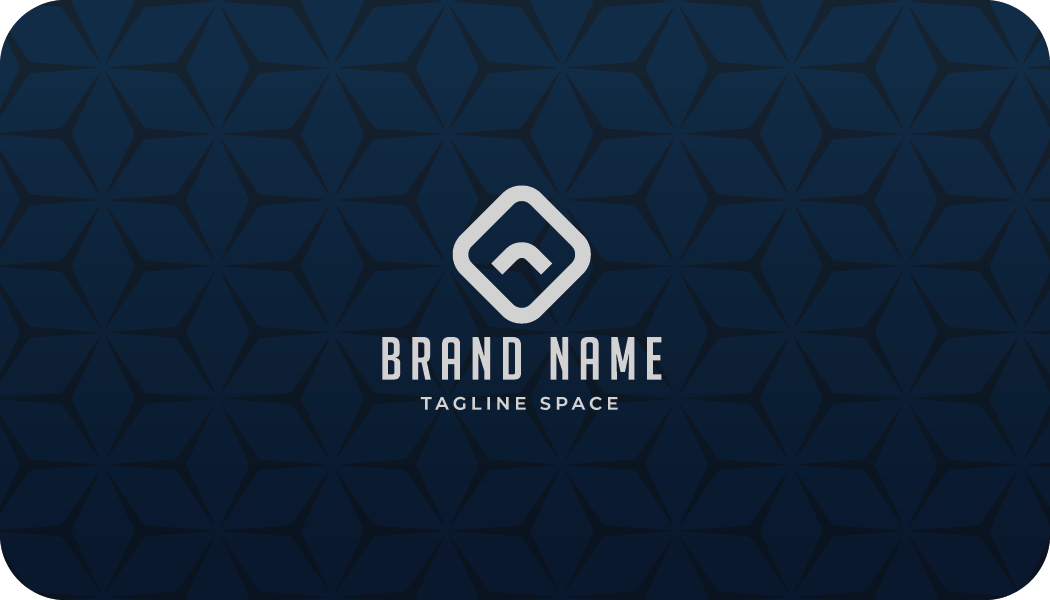
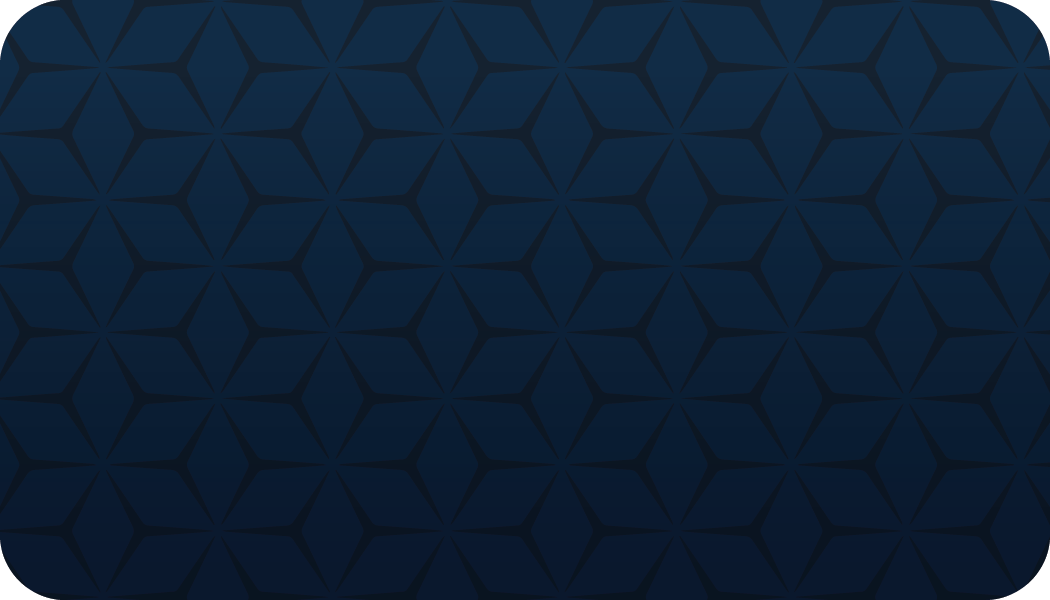
Complete The First Templete

Changed region(s): [[0.3657, 0.3, 0.64, 0.63], [0.3962, 0.66, 0.6095, 0.69]]

diff --git a/app/templates/design-1/page.tsx b/app/templates/design-1/page.tsx
@@ -3,69 +3,40 @@
 import { Button } from "@/components/ui/button";
 import { Input } from "@/components/ui/input";
 import { Box, Container, Flex, Grid } from "@radix-ui/themes";
-import html2canvas from "html2canvas";
-import { jsPDF } from "jspdf";
 import Image from "next/image";
 import { useRef, useState } from "react";
+import { useReactToPrint } from "react-to-print";
 
-const Design = () => {
-  const [location, setLocation] = useState("123 Dummy, Lorem Ipsum");
-  const [phone, setPhone] = useState("+8801408127781");
-  const [email, setEmail] = useState("herdoycode@gmail.com");
-  const [website, setWebsite] = useState("www.herdoycode.com");
-  const [name, setName] = useState("Your Name");
-  const [tag, setTag] = useState("Graphic Designer");
+const Design: React.FC = () => {
+  const [location, setLocation] = useState<string>("123 Dummy, Lorem Ipsum");
+  const [phone, setPhone] = useState<string>("+8801408127781");
+  const [email, setEmail] = useState<string>("herdoycode@gmail.com");
+  const [website, setWebsite] = useState<string>("www.herdoycode.com");
+  const [logo, setLogo] = useState("/logos/design-1.png");
+  const [name, setName] = useState<string>("Your Name");
+  const [tag, setTag] = useState<string>("Graphic Designer");
 
-  // Ref to capture the card for rendering into PDF
-  const cardRef = useRef<HTMLDivElement>(null);
+  const contentRef = useRef<HTMLDivElement | null>(null);
 
-  const downloadPDF = async () => {
-    const element = cardRef.current;
-    if (!element) {
-      console.error("The cardRef is not attached to an element.");
-      return;
-    }
-
-    // Temporarily remove the zoom style
-    const originalZoom = element.style.zoom;
-    element.style.zoom = "100%";
-
-    // Render the card section as an image
-    const canvas = await html2canvas(element, {
-      scale: 2, // Increase resolution
-      useCORS: true, // Handle cross-origin images if needed
-    });
-
-    // Restore the original zoom style
-    element.style.zoom = originalZoom;
-
-    const imgData = canvas.toDataURL("image/png");
-
-    // Create a new jsPDF instance
-    const pdf = new jsPDF({
-      orientation: "portrait",
-      unit: "px",
-      format: [canvas.width, canvas.height],
-    });
-
-    // Add the rendered image to the PDF
-    pdf.addImage(imgData, "PNG", 0, 0, canvas.width, canvas.height);
-    pdf.save("business-card.pdf");
-  };
+  const reactToPrintFn = useReactToPrint({
+    contentRef: contentRef as React.RefObject<Element | Text>,
+  });
 
   return (
     <Container className="px-3">
       <Grid columns={{ initial: "1", md: "1fr 300px" }} my="6">
-        <Flex align="center" justify="center">
+        <Flex
+          align="center"
+          justify="center"
+          style={{ zoom: "40%" }}
+          className="bg-gray-400"
+        >
           <Flex
-            ref={cardRef}
+            ref={contentRef}
             align="center"
             justify="center"
             direction="column"
-            className="w-[1200px] h-[1400px] gap-[75px] bg-gray-400"
-            style={{
-              zoom: "40%",
-            }}
+            className="w-[1200px] h-[1400px] gap-[75px]"
           >
             <Box className="w-[1050px] h-[600px] relative">
               <Image
@@ -78,17 +49,17 @@ const Design = () => {
               <Grid
                 columns="1"
                 rows="4"
-                className="text-[28px] absolute top-[175px] left-[170px] text-white gap-[25px]"
+                className="text-[28px] absolute top-[185px] left-[170px] text-white gap-[25px]"
               >
-                <div> {location} </div>
-                <div> {phone} </div>
-                <div> {email} </div>
-                <div> {website} </div>
+                <div>{location}</div>
+                <div>{phone}</div>
+                <div>{email}</div>
+                <div>{website}</div>
               </Grid>
               <Flex
                 direction="column"
                 align="end"
-                className="absolute right-[85px] top-[200px] leading-[45px]"
+                className="absolute right-[85px] top-[250px] leading-[45px]"
               >
                 <h1 className="text-[60px] font-semibold tracking-[-2px]">
                   {name}
@@ -96,7 +67,7 @@ const Design = () => {
                 <span className="text-[28px] font-[600]">{tag}</span>
               </Flex>
             </Box>
-            <Box className="w-[1050px] h-[600px]">
+            <Box className="w-[1050px] h-[600px] relative">
               <Image
                 width={1050}
                 height={600}
@@ -104,6 +75,9 @@ const Design = () => {
                 alt="card"
                 className="w-[1050px] h-[600px]"
               />
+              <Box className="absolute w-full h-full flex items-center justify-center top-0 left-0">
+                <img src={logo} className="w-[300]" />
+              </Box>
             </Box>
           </Flex>
         </Flex>
@@ -146,8 +120,36 @@ const Design = () => {
             onChange={(e) => setWebsite(e.target.value)}
             placeholder="Enter Website"
           />
-          <Button className="w-full" onClick={downloadPDF}>
-            Download as PDF
+          <Flex
+            align="center"
+            justify="start"
+            className="w-full border rounded-md overflow-hidden cursor-pointer relative"
+            gap="2"
+          >
+            <div className="p-1 bg-black">
+              <img src={logo} alt="logo" className="h-7" />
+            </div>
+            <span className="text-gray-400">Select your logo</span>
+            <input
+              className="w-full absolute top-0 left-0 opacity-0 cursor-pointer"
+              type="file"
+              onChange={(e) => {
+                if (e.target.files && e.target.files[0]) {
+                  const fileURL = URL.createObjectURL(e.target.files[0]);
+                  setLogo(fileURL);
+                }
+              }}
+            />
+          </Flex>
+          <Button
+            className="w-full"
+            onClick={() => {
+              if (reactToPrintFn) {
+                reactToPrintFn();
+              }
+            }}
+          >
+            Save as PDF
           </Button>
         </Flex>
       </Grid>
